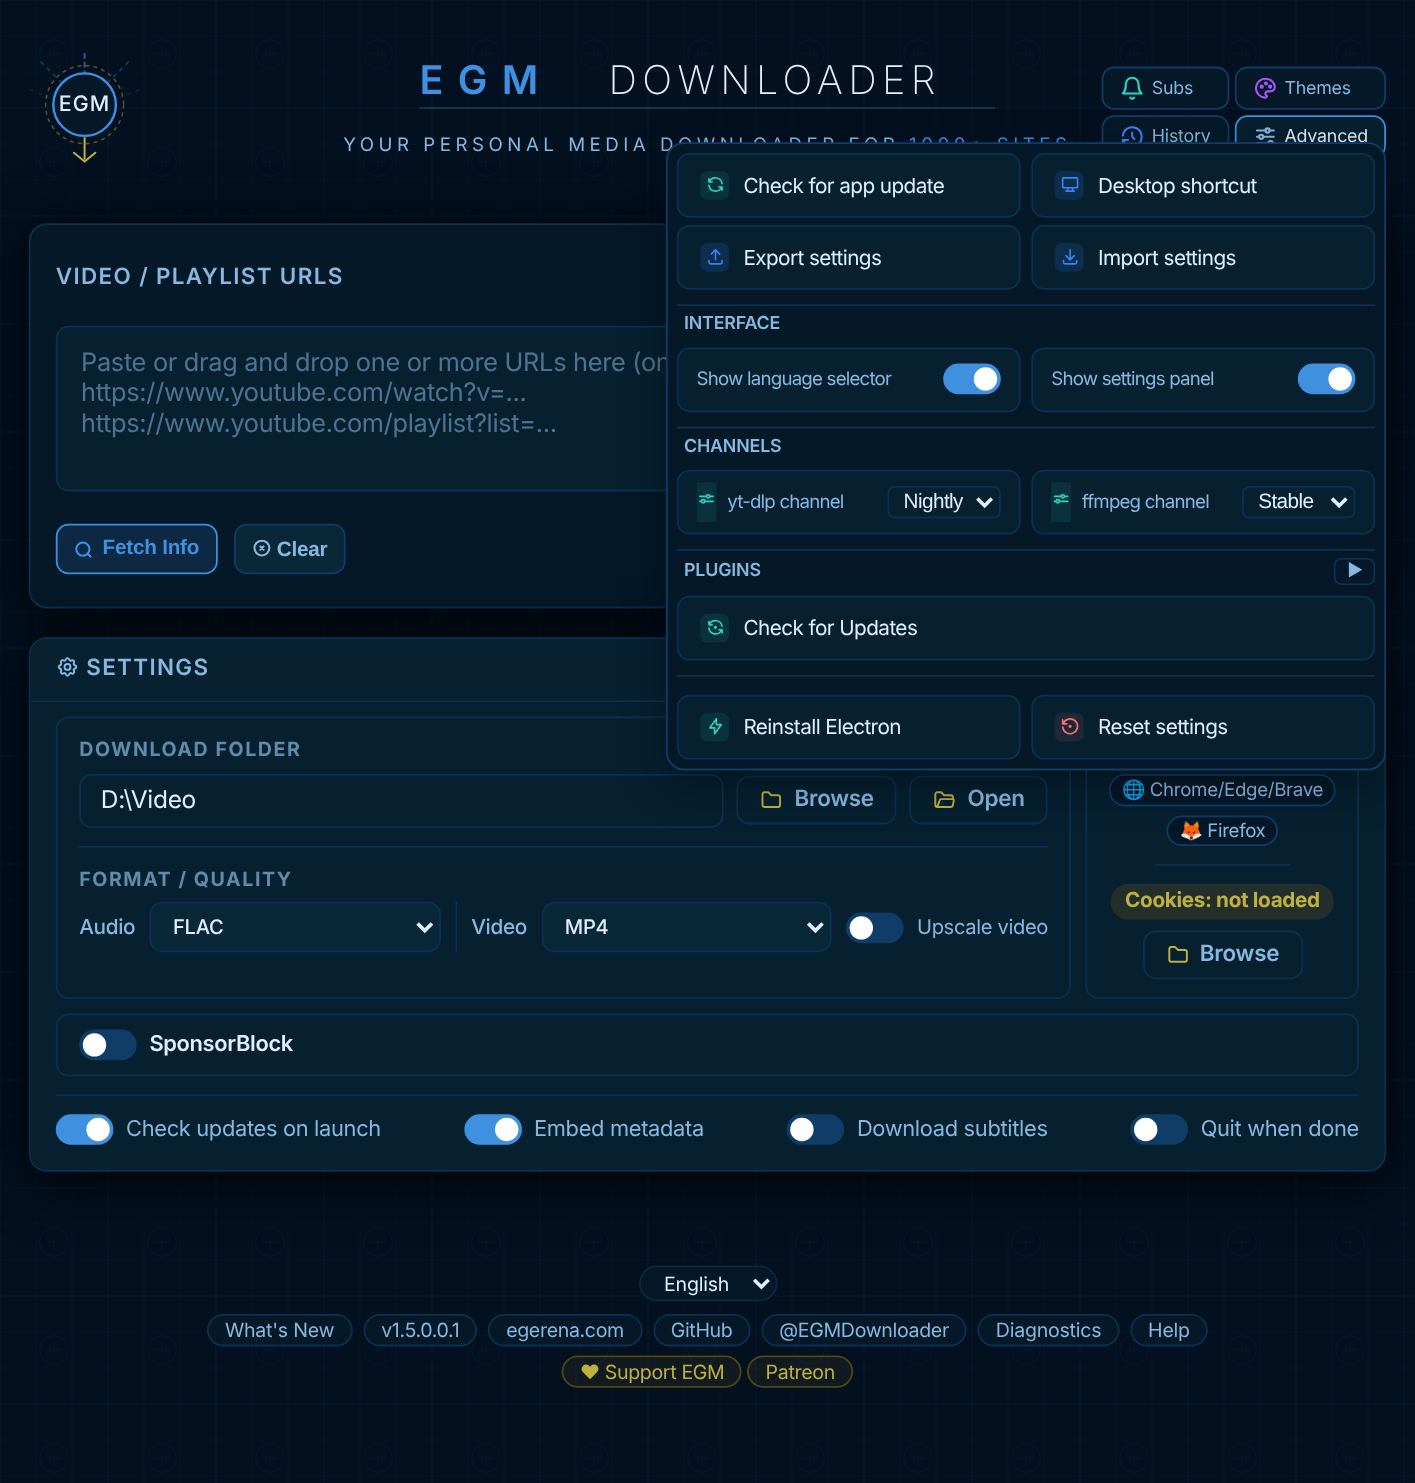
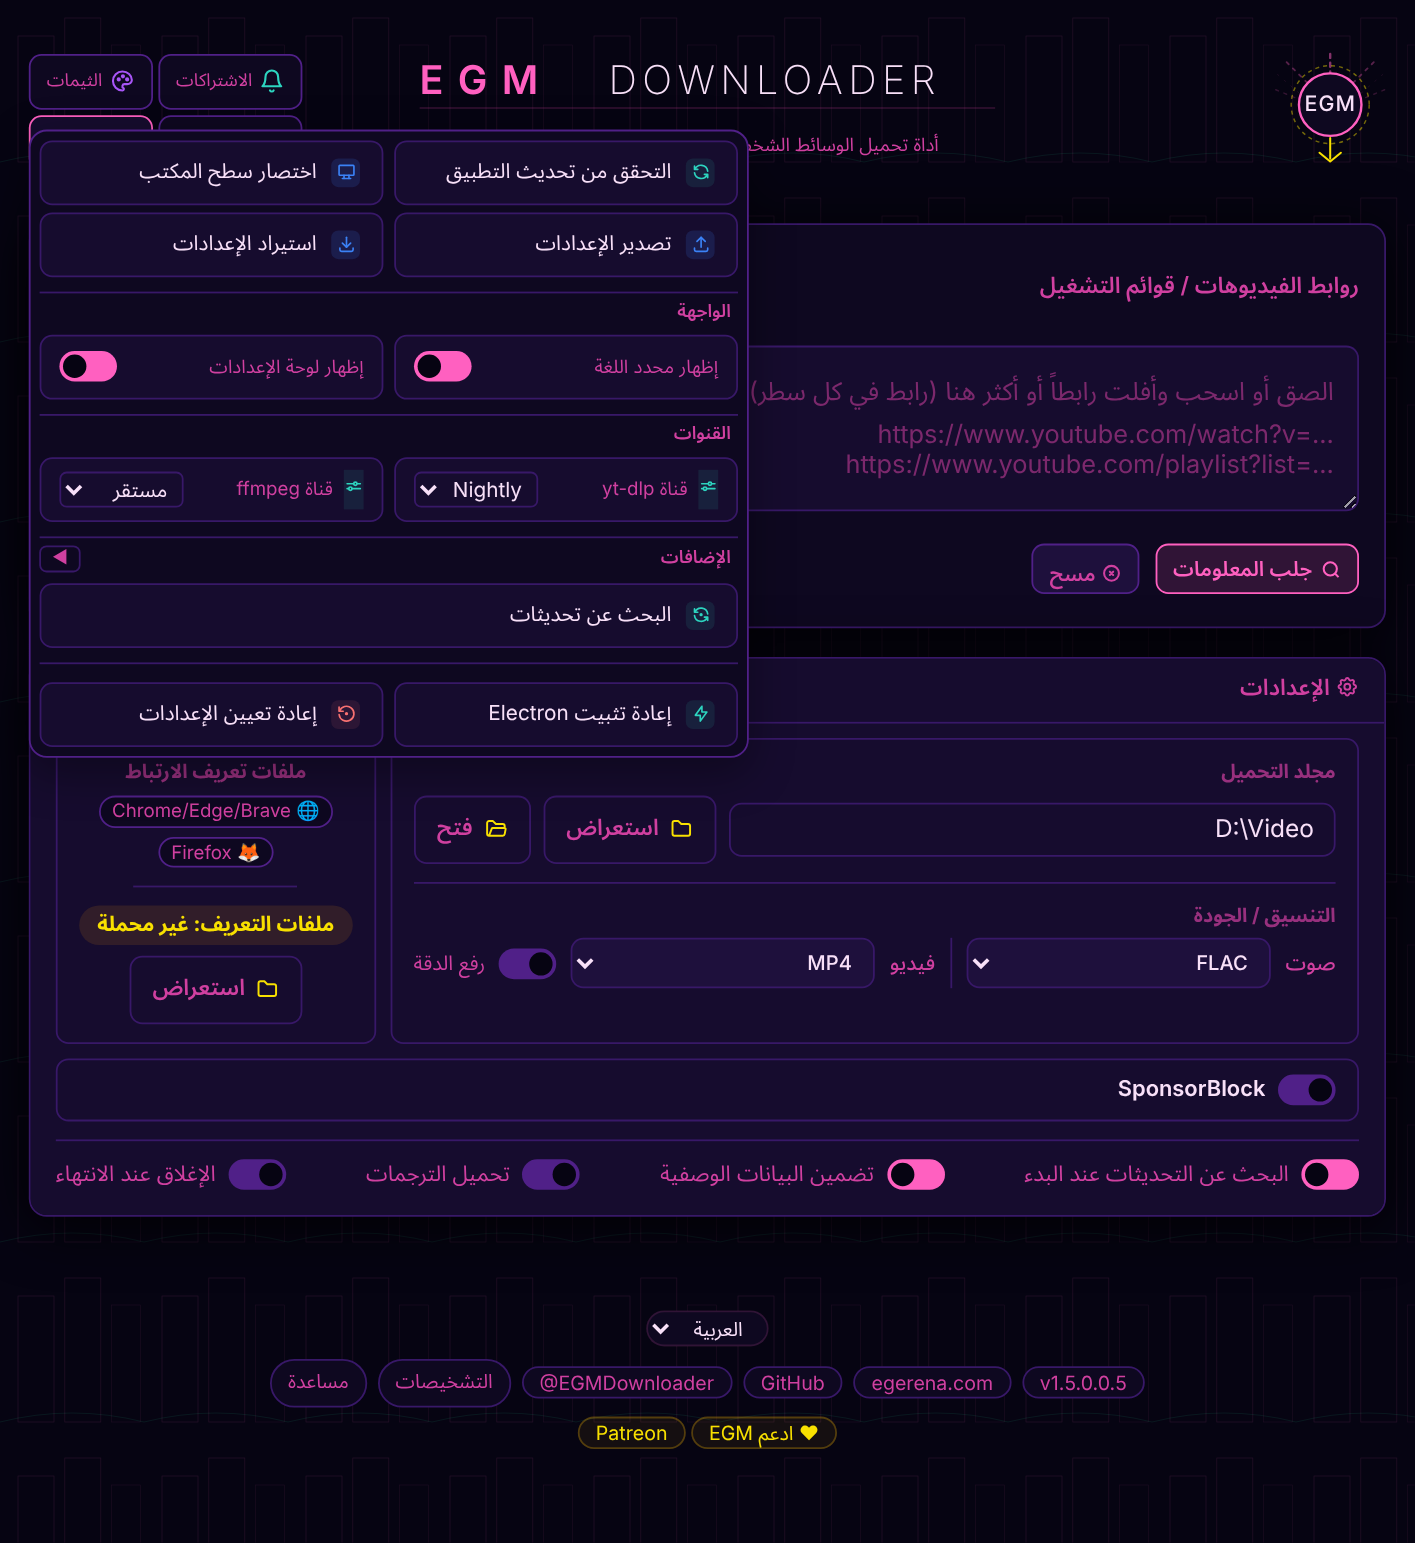
docs: README screenshots for v1.5.0.0.5 CITIUS, three shown in Arabic, and the theme names under the pictures match the pictures

Changed region(s): [[0.0, 0.031, 0.9951, 0.7755], [0.1555, 0.8375, 0.8396, 0.9616]]

diff --git a/README.md b/README.md
@@ -88,7 +88,7 @@ A side by side look at one well known alternative, using details you can check y
 
 ## 🖼 Screenshots
 
-> 📸 *Screenshots of v1.5.0.0.1, THE ONE ABOUT BROTLI. The UI is identical across Windows, macOS, and Linux.*
+> 📸 *Screenshots of v1.5.0.0.5, CITIUS · أصيل. The UI is identical across Windows, macOS, and Linux.*
 
 <table>
   <tr>
@@ -97,12 +97,12 @@ A side by side look at one well known alternative, using details you can check y
       <br/><sub><b>Splash Screen</b></sub>
     </td>
     <td align="center" width="33%">
-      <a href="screenshots/02-main-ui.png"><img src="screenshots/02-main-ui.png" width="260" alt="Main UI, Jazz Club theme"/></a>
-      <br/><sub><b>Main UI</b> (Halloween theme)</sub>
+      <a href="screenshots/02-main-ui.png"><img src="screenshots/02-main-ui.png" width="260" alt="Main UI in Arabic, Meadow theme"/></a>
+      <br/><sub><b>Main UI</b> (Arabic, Meadow theme)</sub>
     </td>
     <td align="center" width="33%">
-      <a href="screenshots/03-advanced-panel.png"><img src="screenshots/03-advanced-panel.png" width="260" alt="Advanced Panel, Blueprint theme"/></a>
-      <br/><sub><b>Advanced Panel</b> (Ubuntu theme)</sub>
+      <a href="screenshots/03-advanced-panel.png"><img src="screenshots/03-advanced-panel.png" width="260" alt="Advanced Panel in Arabic, Miami theme"/></a>
+      <br/><sub><b>Advanced Panel</b> (Arabic, Miami theme)</sub>
     </td>
   </tr>
 </table>
@@ -111,11 +111,11 @@ A side by side look at one well known alternative, using details you can check y
   <tr>
     <td align="center" width="50%">
       <a href="screenshots/08-live-streams.png"><img src="screenshots/08-live-streams.png" width="271" alt="Live streams recording and a download running, Northern Lights theme"/></a>
-      <br/><sub><b>Live Streams</b> (Abyssal theme)</sub>
+      <br/><sub><b>Live Streams</b> (Northern Lights theme)</sub>
     </td>
     <td align="center" width="50%">
       <a href="screenshots/09-live-reconnecting.png"><img src="screenshots/09-live-reconnecting.png" width="371" alt="A live stream reconnecting, Holographic theme"/></a>
-      <br/><sub><b>Live Stream Reconnecting</b> (Cobalt Rush theme)</sub>
+      <br/><sub><b>Live Stream Reconnecting</b> (Holographic theme)</sub>
     </td>
   </tr>
 </table>
@@ -124,11 +124,11 @@ A side by side look at one well known alternative, using details you can check y
   <tr>
     <td align="center" width="50%">
       <a href="screenshots/10-quit-when-done.png"><img src="screenshots/10-quit-when-done.png" width="308" alt="Quit when done countdown, Polaroid theme"/></a>
-      <br/><sub><b>Quit When Done</b> (Mint theme)</sub>
+      <br/><sub><b>Quit When Done</b> (Polaroid theme)</sub>
     </td>
     <td align="center" width="50%">
       <a href="screenshots/06-advanced-plugins.png"><img src="screenshots/06-advanced-plugins.png" width="308" alt="Advanced Panel with the plugins list, Lilac Mist theme"/></a>
-      <br/><sub><b>Advanced Panel, Plugins</b> (Arch Linux theme)</sub>
+      <br/><sub><b>Advanced Panel, Plugins</b> (Lilac Mist theme)</sub>
     </td>
   </tr>
 </table>
@@ -137,11 +137,11 @@ A side by side look at one well known alternative, using details you can check y
   <tr>
     <td align="center" width="50%">
       <a href="screenshots/04-all-themes.png"><img src="screenshots/04-all-themes.png" width="459" alt="All Themes, Monsoon theme"/></a>
-      <br/><sub><b>All Themes</b> (Dialup theme)</sub>
+      <br/><sub><b>All Themes</b> (Monsoon theme)</sub>
     </td>
     <td align="center" width="50%">
       <a href="screenshots/11-theme-creator.png"><img src="screenshots/11-theme-creator.png" width="320" alt="Theme Creator with a custom theme, Copper Tide"/></a>
-      <br/><sub><b>Theme Creator</b> (custom Toxic Orchid theme)</sub>
+      <br/><sub><b>Theme Creator</b> (custom Copper Tide theme)</sub>
     </td>
   </tr>
 </table>
@@ -149,12 +149,12 @@ A side by side look at one well known alternative, using details you can check y
 <table>
   <tr>
     <td align="center" width="50%">
-      <a href="screenshots/05-subscriptions.png"><img src="screenshots/05-subscriptions.png" width="444" alt="Subscriptions, Wanderlust theme"/></a>
-      <br/><sub><b>Subscriptions</b> (Matcha theme)</sub>
+      <a href="screenshots/05-subscriptions.png"><img src="screenshots/05-subscriptions.png" width="444" alt="Subscriptions in Arabic, Favela Sunset theme"/></a>
+      <br/><sub><b>Subscriptions</b> (Arabic, Favela Sunset theme)</sub>
     </td>
     <td align="center" width="50%">
       <a href="screenshots/07-download-history.png"><img src="screenshots/07-download-history.png" width="334" alt="Download History, Permafrost theme"/></a>
-      <br/><sub><b>Download History</b> (Velvet Rose theme)</sub>
+      <br/><sub><b>Download History</b> (Permafrost theme)</sub>
     </td>
   </tr>
 </table>
